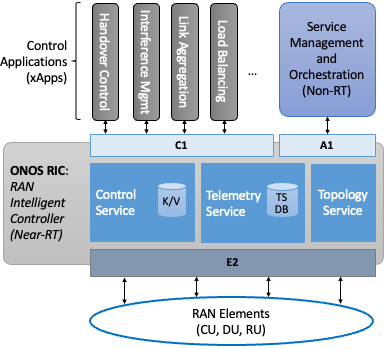
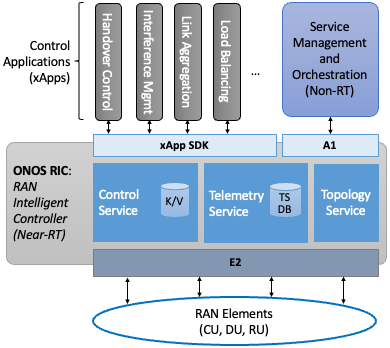
added xApp SDK

diff --git a/access.rst b/access.rst
@@ -370,15 +370,10 @@ ONOS for the SD-RAN use case.
     3GPP-compliant RAN Intelligent Controller (RIC) built by adapting
     and extending ONOS.
 
-Most notably, the ONOS-based RIC supports the standardized
-3GPP-defined interfaces.  This includes the **C1** interface by which
-control applications communicate with the RIC, the **A1** interface by
-which the operator configures the RAN, and the **E2** interface by
-which the RIC communicates with the underlying RAN elements. We
-describe these interfaces in the next subsection, but for now the main
-takeaway is that, despite their cryptic names, these interfaces are no
-different than supporting any other standard north- and south-facing
-interface (e.g., gNMI, gNOI, OpenFlow).
+Most notably, the ONOS-based RIC supports a set of RAN-specific north-
+and south-facing interfaces, similar in spirit (but not detail) to the
+interfaces described in earlier chapters (e.g., gNMI, gNOI,
+OpenFlow). We discuss these interfaces in the next subsection.
 
 .. sidebar:: O-RAN Alliance
 
@@ -400,17 +395,17 @@ interface (e.g., gNMI, gNOI, OpenFlow).
    operators will be successful in their ultimate goal is yet to be
    seen.
 
-The ONOS-based RIC takes advantage of the Topology Service described
-in Chapter 6, but it also introduces two new services: *Control* and
-*Telemetry*. The Control Service, which builds on the Atomix key/value
-store, manages the control state for all the base stations and user
-devices, including which base station is serving each user device, as
-well as the set of  “potential links” that could connect the device.
-The Telemetry Service, which builds on a *Time Series Database
-(TSDB)*, tracks all the link quality information being reported back
-by the RAN elements. Various of the control applications then analyze
-this data to make informed decisions about how the RAN can best meet
-its data delivery objectives.
+As for the core, ONOS-based RIC takes advantage of the Topology
+Service (among others) described in Chapter 6, but it also introduces
+two new services: *Control* and *Telemetry*. The Control Service,
+which builds on the Atomix key/value store, manages the control state
+for all the base stations and user devices, including which base
+station is serving each user device, as well as the set of “potential
+links” that could connect the device.  The Telemetry Service, which
+builds on a *Time Series Database (TSDB)*, tracks all the link quality
+information being reported back by the RAN elements. Various of the
+control applications then analyze this data to make informed decisions
+about how the RAN can best meet its data delivery objectives.
 
 The example Control Apps (xApps) in :numref:`Figure %s <fig-ric>`
 include a range of possibilities, but are not intended to be an
@@ -427,27 +422,29 @@ RIC Interfaces
 
 Returning to the three interfaces called out in :numref:`Figure %s
 <fig-ric>`, each serves a purpose similar to the interfaces described
-in earlier chapters.
+in earlier chapters. The first two, **A1** and **E2**, are
+3GPP-defined. The third, denoted **xApp SDK** in :numref:`Figure %s
+<fig-ric>`, is specific to the ONOS-based implementation (and similar
+in spirit to Flow Objectives).
 
-The first is the **A1** interface that the mobile operator's
+The A1 interface provides a means for the mobile operator's
 management plane—typically called the *OSS/BSS (Operations Support
-System / Business Support System)* in the Telco world—uses to
-configure the RAN.  We have not discussed the Telco OSS/BSS up to this
-point, but it safe to assume such a component sits at the top of any
-Telco software stack. It is the source of all configuration settings
-and business logic needed to operate a network. You can think of it as
-the RAN counterpart to gNMI/gNOI.
+System / Business Support System)* in the Telco world—to configure the
+RAN.  We have not discussed the Telco OSS/BSS up to this point, but it
+safe to assume such a component sits at the top of any Telco software
+stack. It is the source of all configuration settings and business
+logic needed to operate a network. You can think of it as the RAN
+counterpart to gNMI/gNOI.
 
-The second is the **E2** interface that the Near-RT RIC uses to
-control the underlying RAN elements. You can think of it as the RAN
-counterpart to OpenFlow. A requirement of the E2 interface is that it
-be able to connect the Near-RT RIC to different types of RAN
-elements. This range is reflected in the API, which revolves around a
-*Service Model* abstraction. The idea is that each RAN element
-advertises a Service Model, which effectively defines the set of RAN
-Functions the element is able to support. The RIC then issues a
-combination of the following four operations against this Service
-Model.
+The E2 interface that the Near-RT RIC uses to control the underlying
+RAN elements. You can think of it as the RAN counterpart to
+OpenFlow. A requirement of the E2 interface is that it be able to
+connect the Near-RT RIC to different types of RAN elements. This range
+is reflected in the API, which revolves around a *Service Model*
+abstraction. The idea is that each RAN element advertises a Service
+Model, which effectively defines the set of RAN Functions the element
+is able to support. The RIC then issues a combination of the following
+four operations against this Service Model.
 
 * **Report:** RIC asks the element to report a function-specific value setting.
 * **Insert:** RIC instructs the element to activate a user plane function.
@@ -487,11 +484,13 @@ elsewhere. The Non-RT RIC would then interact with the Near-RT RIC to
 deliver relevant operator policies from the Management Plane to the
 Near RT-RIC over the A1 interface.
 
-Finally, the **C1** interface, which in principle is the RAN
-counterpart of Flow Objectives, is essentially a "pass through" of the
-E1 interface. This implies the xApps must be aware of the available
-Service Models.
-
+Finally, the xApp SDK, which in principle is the RAN counterpart of
+Flow Objectives, is specific to the ONOS-based implmentation. It is
+currently little more than a "pass through" of the E1 interface, which
+implies the xApps must be aware of the available Service Models. This
+is problematic in that it implicitly couples applications with
+devices, but defining a device-agnostic version is still a
+work-in-progress.
  
 9.4  Relationship to SD-Fabric
 -----------------------------------
